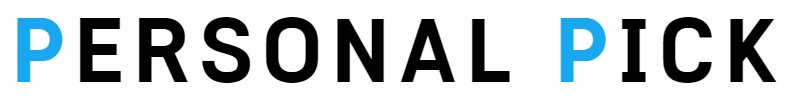
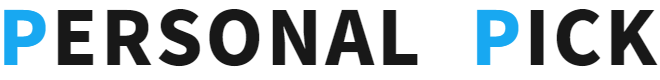
지원 09/04 로고 및 파비콘 및 타이틀 수정

diff --git a/src/page/airecommend/AiRecommend.jsx b/src/page/airecommend/AiRecommend.jsx
@@ -22,13 +22,13 @@ const AiRecommend = () => {
     const [userData, setUserData] = useState();
     
     // redux에서 데이터 가져오기
-    // const user = useSelector(state => state.user)
-    // const skin_type = user.skin_type
-    // const user_age = user.user_age
-    // const user_sex = user.user_sex
-    // console.log('피부타입 : ', skin_type);
-    // console.log('연령 : ', user_age);
-    // console.log('성별 : ', user_sex);  
+    const user = useSelector(state => state.user)
+    const skin_type = user.skin_type
+    const user_age = user.user_age
+    const user_sex = user.user_sex
+    console.log('피부타입 : ', skin_type);
+    console.log('연령 : ', user_age);
+    console.log('성별 : ', user_sex);  
 
     useEffect(() => {
         

diff --git a/public/index.html b/public/index.html
@@ -30,7 +30,7 @@
     -->
     <style>
     </style>
-    <title>샘플로드 | 작은화장품 | 대한민국</title>
+    <title>퍼스널 픽 | Personal-Pick</title>
 </head>
 
 <body>
